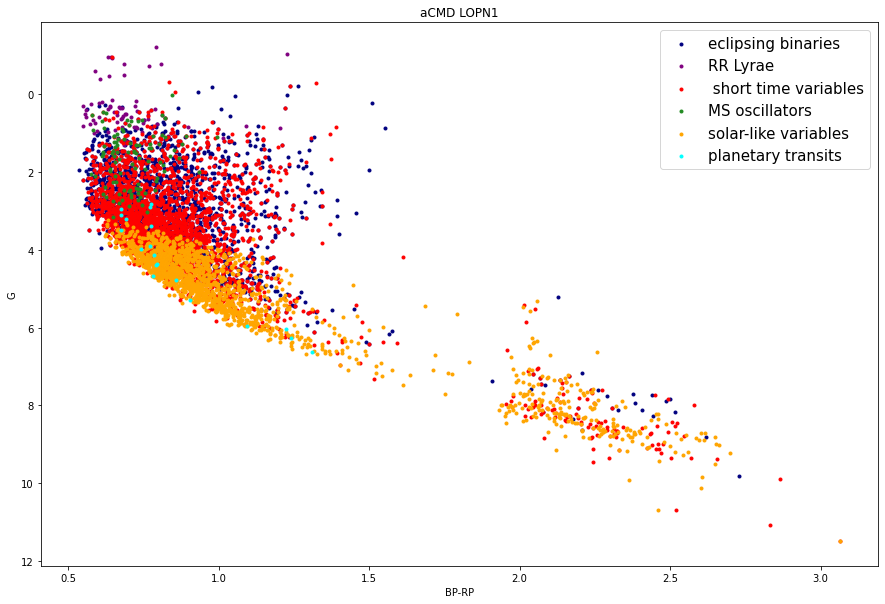
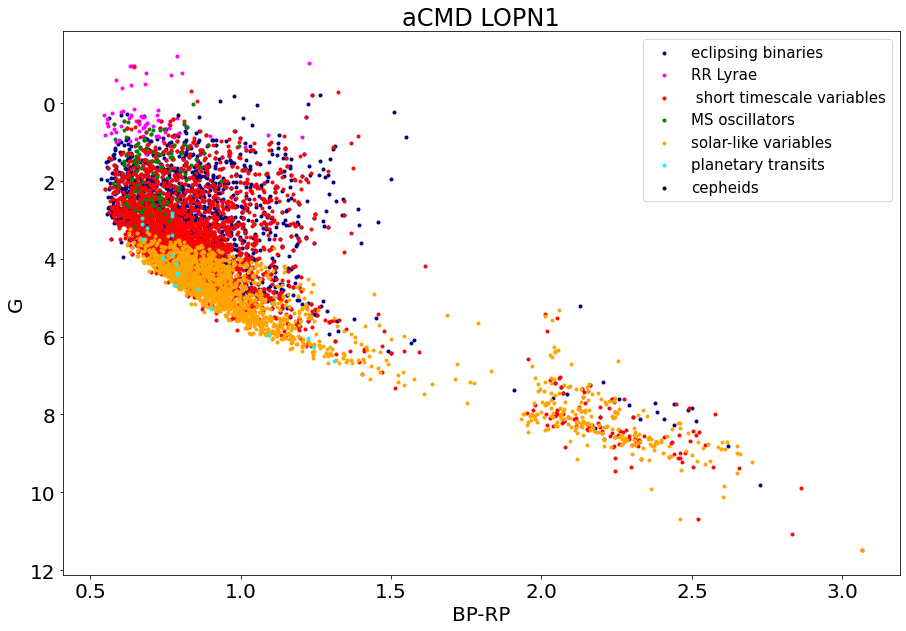
update

diff --git a/thesis/code/Cepheid.py b/thesis/code/Cepheid.py
@@ -1,0 +1,117 @@
+#!/usr/bin/env python3
+# -*- coding: utf-8 -*-
+"""
+Created on Wed May 24 21:10:14 2023
+
+@author: adri
+"""
+
+from astropy.io import fits
+import matplotlib.pyplot as plt
+import numpy as np
+from astropy.table import Table, join
+from astropy.utils.data import get_pkg_data_filename
+plt.rcParams.update({'font.size': 20})
+
+
+##### epoch photometry ######
+
+hdulist = fits.open('EPOCH_PHOTOMETRY-Gaia DR3 4301612233202961024.fits')
+hdulist.info()
+dat = hdulist[1].data
+
+b=dat.field('band')
+mag = dat.field("mag")
+time=dat.field("time")
+
+
+p1 = 0.21859 #  Period corresponding to the first overtone pulsation mode in the G band time series 
+
+
+G=[]
+BP=[]
+RP=[]
+t_g =[]
+t_bp=[]
+t_rp=[]
+f_g=[]
+f_bp=[]
+f_rp=[]
+
+i=0
+for i in range(len(b)):
+    if (b[i] =="G"):
+        G.append(mag[i])
+        t_g.append(time[i])
+       
+    if (b[i] =="BP"):
+        BP.append(mag[i])
+        t_bp.append(time[i])
+        
+    if (b[i] =="RP"):
+        RP.append(mag[i])
+        t_rp.append(time[i])
+      
+
+
+
+
+
+# unfolded magnitude
+
+plt.figure(figsize=(15, 10)) 
+plt.scatter(t_rp,RP,color='red',marker = 'o',  label = 'RP band')
+plt.scatter(t_g,G,color='green',marker = 'o',  label = 'G band')
+plt.scatter(t_bp,BP,color='blue',marker = 'o',  label = 'BP band')
+plt.text(x = 2200, y = 9.6, s = "Cepheid Gaia DR3 4301612233202961024", horizontalalignment='center', color = 'gray')
+plt.gca().invert_yaxis()
+plt.legend(fontsize = 15,loc = "best")
+plt.xlabel("Time (BJD)")
+plt.ylabel('Magnitude (mag)')
+plt.ylim(11,9.4)
+#plt.xlim(2200,2400)
+plt.title('Epoch photometry')
+plt.show()
+
+
+
+
+# folded magnitude 
+
+
+plt.figure(figsize=(15, 10)) 
+
+t_rp=np.array(t_rp)      
+phase =  ((t_rp - 1725.73221 - p1) / p1/2) % 1 - 0.5
+plt.scatter(phase,RP,s= 80,color='red',marker = 'o',  label = 'RP band') 
+
+t_g=np.array(t_g)        
+phase =  ((t_g - 1725.73182 - p1) / p1/2) % 1  - 0.5
+plt.scatter(phase,G,s= 80,color='green',marker = 'o',  label = 'G band') 
+
+t_bp=np.array(t_bp)    
+phase =  ((t_bp - 1725.73212 - p1) / p1/2) % 1 - 0.5
+plt.scatter(phase,BP,s= 80,color='blue',marker = 'o',  label = 'BP band') 
+
+plt.text(x = 0, y = 9.6, s = "Cepheid Gaia DR3 4301612233202961024", horizontalalignment='center', color = 'gray')
+plt.gca().invert_yaxis()
+#plt.xlim(-0.4,0.4)
+plt.ylim(11,9.4) # BP band
+#plt.ylim(11.85,11.75) # G band
+#plt.ylim(11.5,11.2) # RP band
+#plt.axhline(11.37, c ='C2', alpha=1)
+plt.legend(fontsize = 15, loc = "lower right")
+plt.xlabel("Phase")
+plt.ylabel('Magnitude (mag)')
+plt.title('Epoch photometry')
+plt.show()
+
+
+
+
+
+
+
+
+
+

diff --git a/thesis/code/Aitoff.py b/thesis/code/Aitoff.py
@@ -324,26 +324,46 @@ l13 = np.deg2rad(np.array(l13))
 b13 = np.deg2rad(np.array(b13))
 
 
+hdulist14 = fits.open('cepheid1.fits')
+hdulist14.info()
+dat14 = hdulist14[1].data
+
+l14=dat14.field('l')
+b14=dat14.field('b')
+
+
+l14 = Angle(l14 * u.deg)
+l14.wrap_at('180deg', inplace=True)
+
+print(l14)
+
+
+b14 = Angle(b14 * u.deg)
+b14.wrap_at('90d', inplace=True)
+
+print(b14)
+
+l14 = np.deg2rad(np.array(l14))
+b14 = np.deg2rad(np.array(b14))
+
+
 fig = plt.figure(figsize=(15,12))
 ax = fig.add_subplot(1,1,1, projection='aitoff')
 
 ax.scatter(l, b, s=3, color='red', alpha=1, label = 'planetary transits')   
-
 ax.scatter(l2, b2, s=3, color='red', alpha=1)
-
 ax.scatter(l3, b3, s=2, color='navy', alpha=0.5, label = 'eclipsing binaries')   
 ax.scatter(l4, b4, s=2, color='navy', alpha=0.5)
 ax.scatter(l5, b5, s=3, color='green', alpha=1, label = 'RR Lyrae')   
 ax.scatter(l6, b6, s=3, color='green', alpha=1)   
-
 ax.scatter(l7, b7, s=3, color='magenta', alpha=1, label = 'MS oscillators')   
 ax.scatter(l8, b8, s=3, color='magenta', alpha=1)   
-
 ax.scatter(l9, b9, s=2, color='aqua', alpha=1, label = 'short-timescale variables')   
 ax.scatter(l10, b10, s=2, color='aqua', alpha=1)   
 ax.scatter(l11, b11, s=2, color='yellow', alpha=1, label = 'solar-like variables')   
 ax.scatter(l12, b12, s=2, color='yellow', alpha=1)   
 ax.scatter(l13, b13, s=3, color='black', alpha=1, label = 'long-period variables')   
+ax.scatter(l14, b14, s=3, color='orange', alpha=1, label = 'Cepheids')   
 
 ax.grid()
 plt.legend(fontsize="10", loc ="lower right")

diff --git a/thesis/code/aCMD.py b/thesis/code/aCMD.py
@@ -195,6 +195,33 @@ for i in range(N6):
         G6[i] = g6[i] +5 *( 1+np.log10 (p6[i]/1000) ) - ag6[i]
 
 
+#cepheids
+hdulist7 = fits.open('cepheid1.fits')
+hdulist7.info()
+dat7 = hdulist7[1].data
+
+g7=dat7.field('median_mag_g_fov')
+bp7=dat7.field('median_mag_bp')
+rp7=dat7.field('median_mag_rp')
+p7=dat7.field("parallax")
+ag7 = dat7.field("ag_gspphot") 
+
+print(g7)
+print(bp7)
+print(rp7)
+print(p7)
+print(ag7)
+
+N7 = len(g7)
+
+color7=np.zeros(N7,float)
+G7=np.zeros(N7,float)
+
+i=0
+for i in range(N7):
+        color7[i]=bp7[i]-rp7[i]
+        G7[i] = g7[i] +5 *( 1+np.log10 (p7[i]/1000) ) - ag7[i]
+
 
 
 
@@ -206,6 +233,7 @@ plt.scatter(color6,G6,color='red',marker = '.',  label = ' short time variables'
 plt.scatter(color3,G3,color='forestgreen',marker = '.',  label = 'MS oscillators')
 plt.scatter(color4,G4,color='orange',marker = '.',  label = 'solar-like variables')
 plt.scatter(color1,G1,color='aqua',marker = '.',  label = 'planetary transits')
+plt.scatter(color7,G7,color='black',marker = '.',  label = 'cepheids')
 
 
 plt.legend(fontsize="15")
